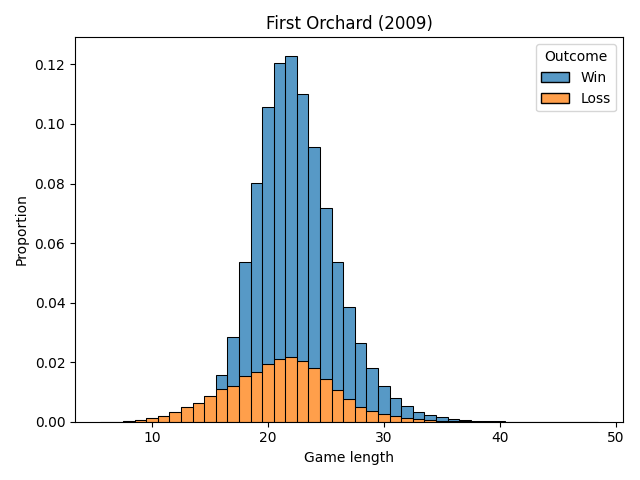
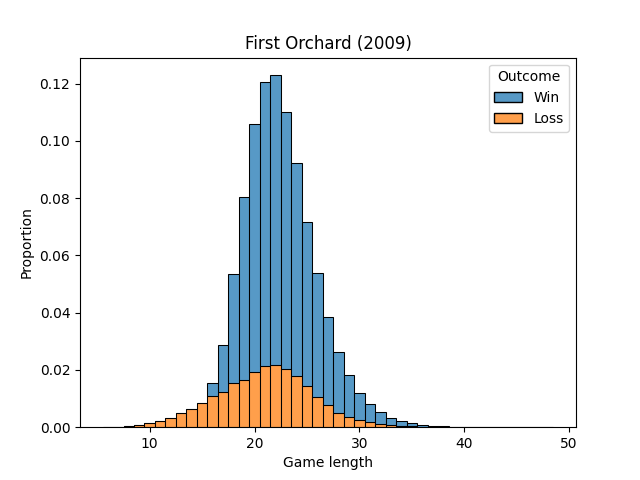
no tight layout

diff --git a/experiments/orchard/Plots.py b/experiments/orchard/Plots.py
@@ -78,7 +78,7 @@ sns.histplot(
     multiple="stack",
 )
 plt.title("Orchard (1986)")
-plt.tight_layout()
+# plt.tight_layout()
 plt.savefig(save_dir / "game_length_original.png")
 plt.show()
 
@@ -127,7 +127,7 @@ sns.histplot(
     multiple="stack",
 )
 plt.title("First Orchard (2009)")
-plt.tight_layout()
+# plt.tight_layout()
 plt.savefig(save_dir / "game_length_first.png")
 plt.show()
 
@@ -158,7 +158,7 @@ sns.barplot(x=range(1, 11), y=win_rates[1:])
 plt.title("First Orchard (2009)")
 plt.xlabel("Raven steps")
 plt.ylabel("Win rate")
-plt.tight_layout()
+# plt.tight_layout()
 plt.gca().yaxis.set_major_formatter(ticker.PercentFormatter(xmax=1))
 plt.savefig(save_dir / "win_rates_first.png")
 plt.show()
